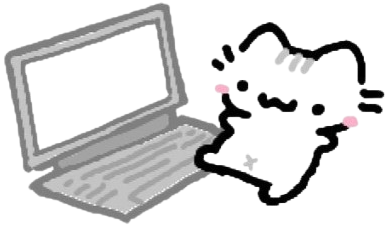
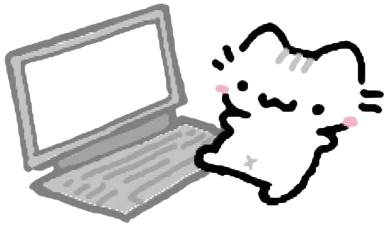
Replace temp profile pic with nerd cat (also temp)

diff --git a/index.html b/index.html
@@ -328,10 +328,7 @@
     <div class="cover-banner">
       <div class="avatar-wrap">
         <div class="avatar">
-          <!-- Profile photo placeholder -->
-          <svg width="56" height="56" viewBox="0 0 24 24" fill="currentColor">
-            <path d="M12 12c2.7 0 4.8-2.1 4.8-4.8S14.7 2.4 12 2.4 7.2 4.5 7.2 7.2 9.3 12 12 12zm0 2.4c-3.2 0-9.6 1.6-9.6 4.8v2.4h19.2v-2.4c0-3.2-6.4-4.8-9.6-4.8z"/>
-          </svg>
+          <img src="assets/images/nerdcat.png" alt="Aaron Chang" style="width:90%;height:90%;object-fit:contain;" />
         </div>
       </div>
     </div>
